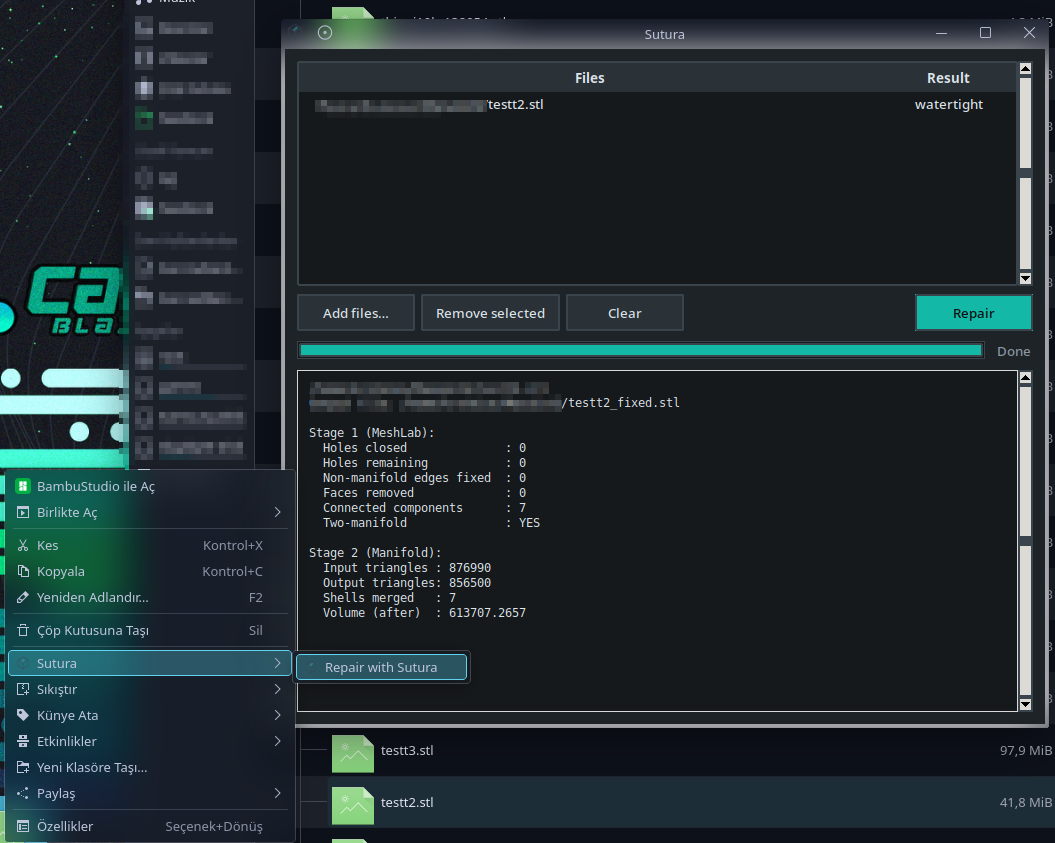
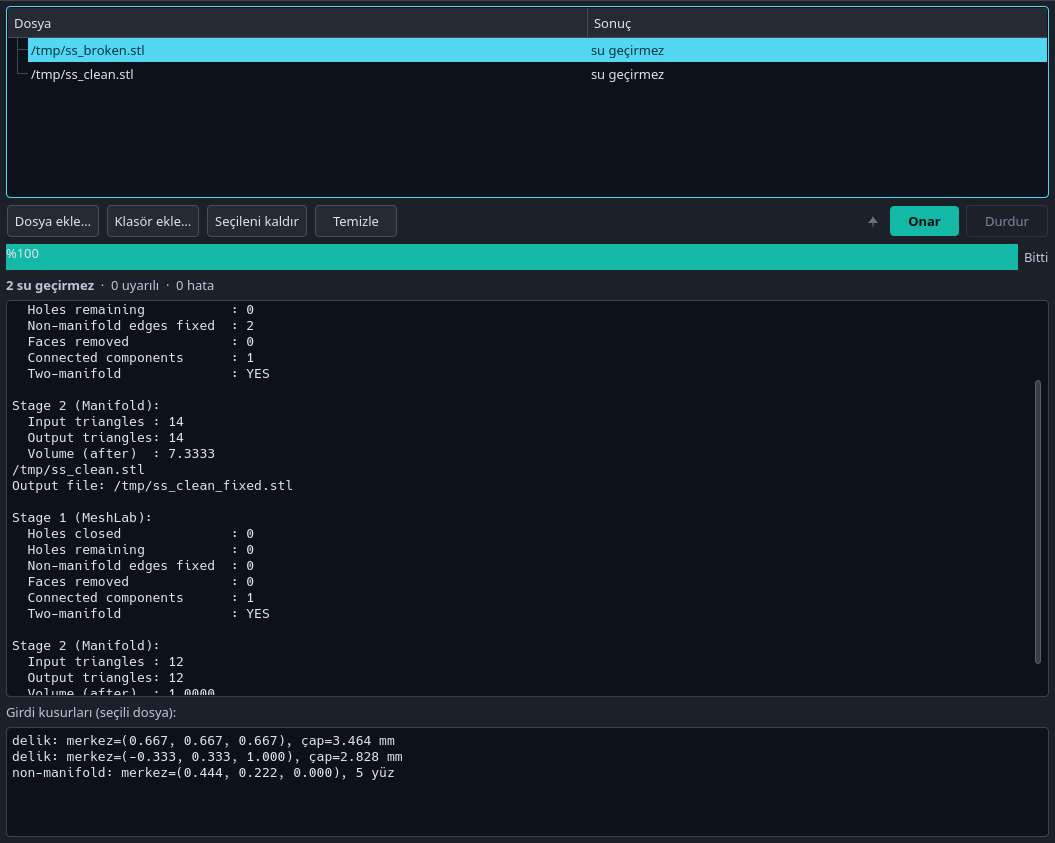
Update README/assets screenshots for batch summary and defect panel
- assets/screenshot.png: refresh the main GUI screenshot to a 2-file batch
  showing the batch summary strip and the defect detail panel (mm diameters).
- assets/defect-panel.png: new screenshot of the per-file defect panel.
- README: add a 'Defect detail panel' subsection under the GUI section.
- .gitignore: ignore screenshots/ (review-only renders).

diff --git a/README.md b/README.md
@@ -206,6 +206,15 @@ files or folders onto the window. **Stop** terminates the running repair and
 marks the remaining files as cancelled. Drag & drop works on native Wayland
 sessions (the GUI is a Qt application, not XWayland).
 
+#### Defect detail panel
+
+![Defect detail panel](assets/defect-panel.png)
+
+When a file is selected, the panel below the log lists the defects found in
+its input mesh: each hole's centroid and diameter (in mm) and each
+non-manifold region. This complements the batch summary strip above the log —
+the strip is a per-batch count, this panel is per-file detail.
+
 Dolphin: right-click an STL/3MF file -> **Repair with Sutura**. With a single
 selection the GUI opens with the file loaded; with multiple selections each
 file is repaired headlessly and a summary dialog is shown.
